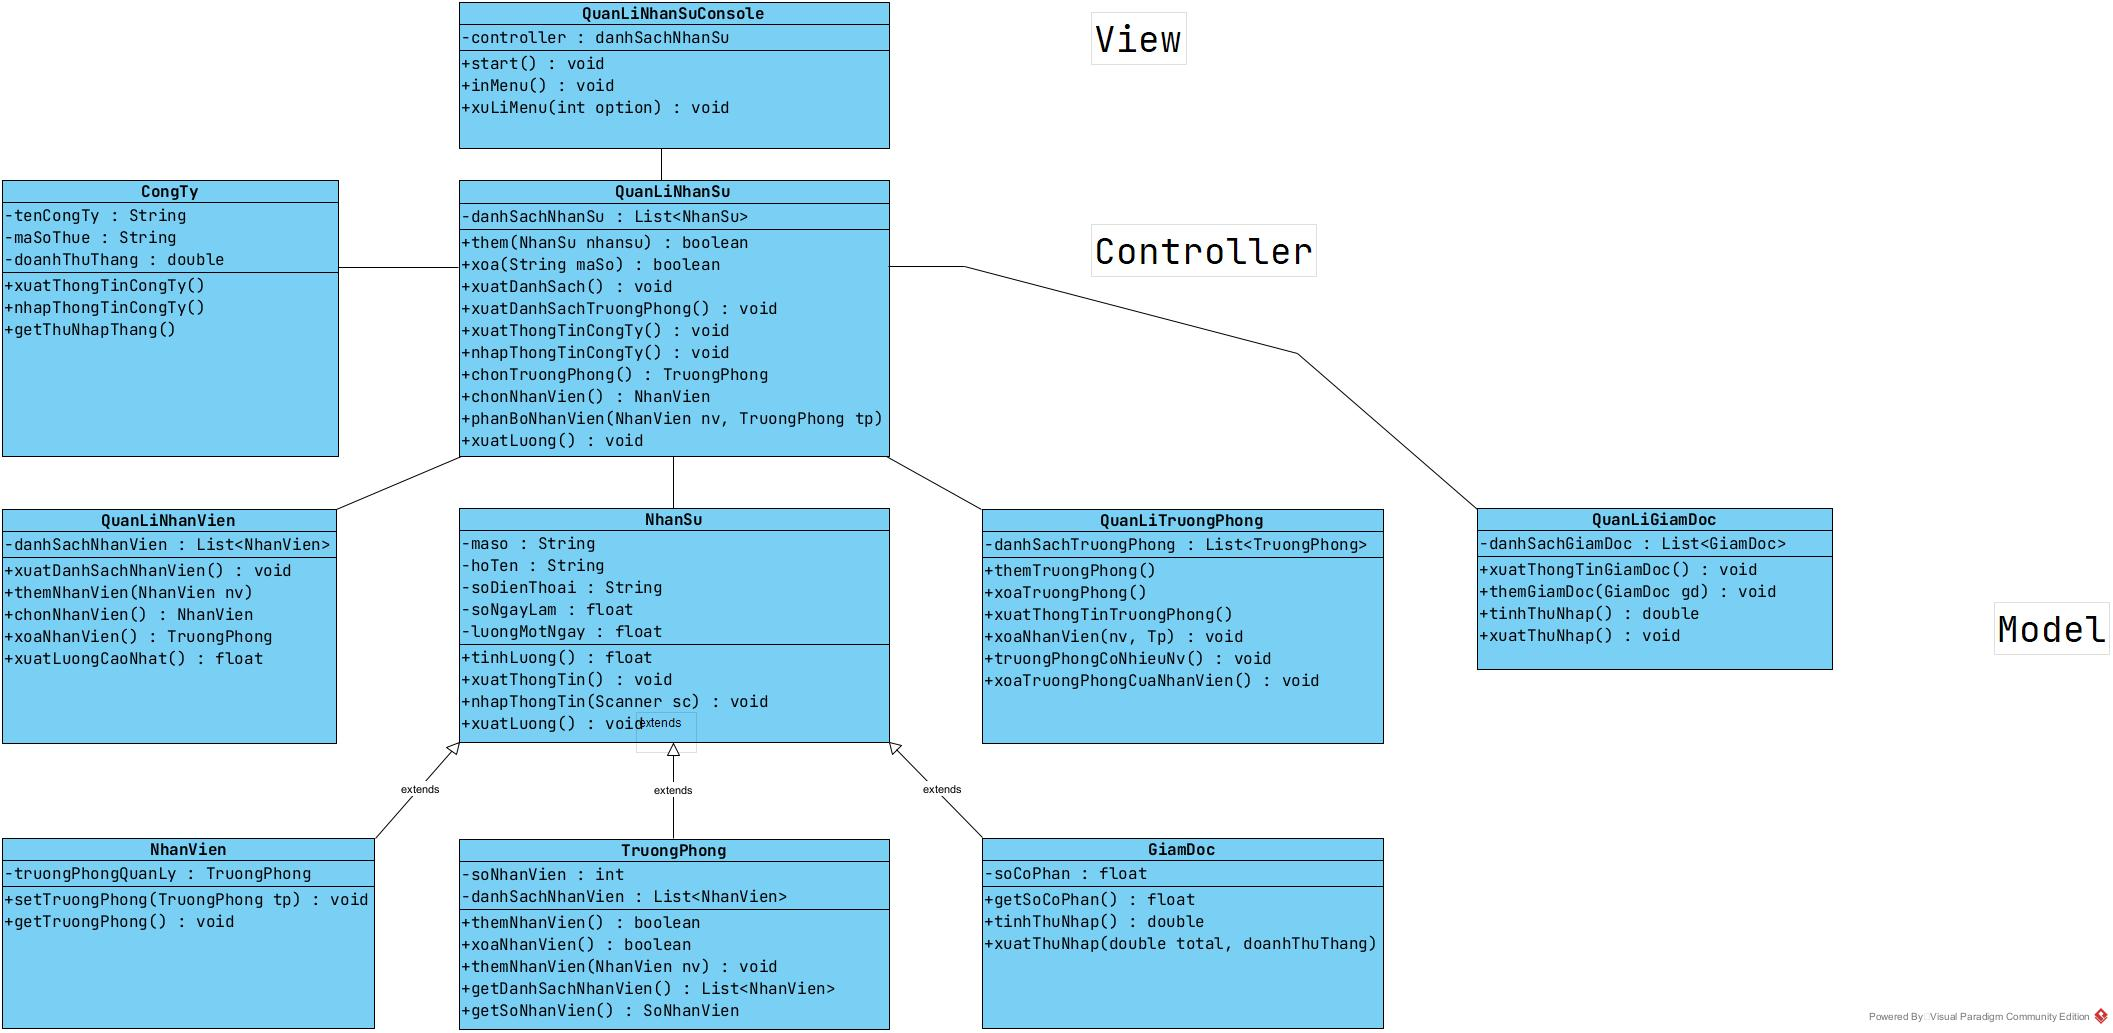
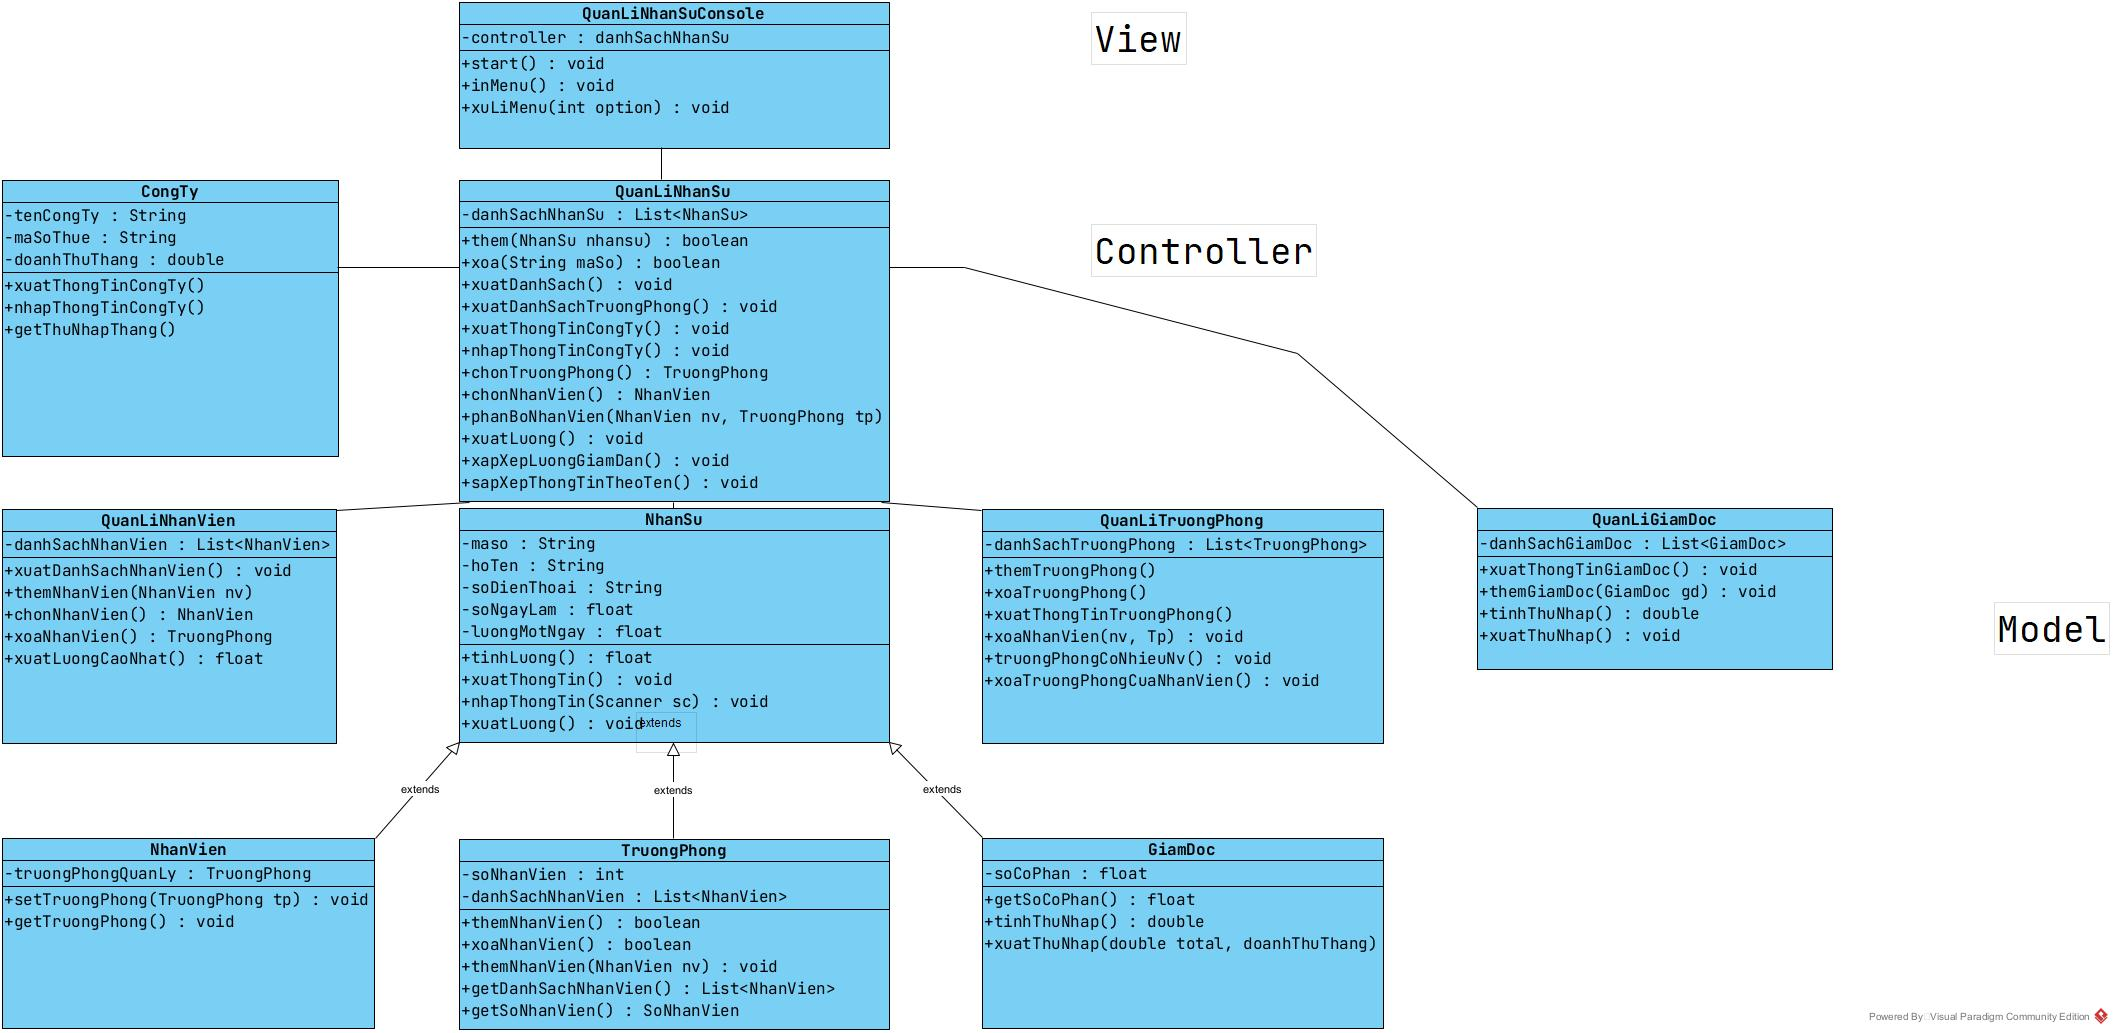
update code

Changed region(s): [[0.2186, 0.1859, 0.4373, 0.4956], [0.1562, 0.4647, 0.1874, 0.4956]]

diff --git a/src/cybersoft/javabackend/java16/views/QuanLiNhanSuConsole.java b/src/cybersoft/javabackend/java16/views/QuanLiNhanSuConsole.java
@@ -38,8 +38,9 @@ public class QuanLiNhanSuConsole {
 				.append("\n\t8. Tìm Nhân viên thường có lương cao nhất")
 				.append("\n\t9. Tìm Trưởng Phòng có số lượng nhân viên dưới quyền nhiều nhất")
 				.append("\n\t10. Sắp xếp nhân viên toàn công ty theo thứ tự abc ")
-				.append("\n\t11. Tìm Giám Đốc có số lượng cổ phần nhiều nhất")
-				.append("\n\t12. Tính và Xuất tổng THU NHẬP của từng Giám Đốc")
+				.append("\n\t11. Sắp xếp nhân viên toàn công ty theo thứ tự giảm dần.")
+				.append("\n\t12. Tìm Giám Đốc có số lượng cổ phần nhiều nhất")
+				.append("\n\t13. Tính và Xuất tổng THU NHẬP của từng Giám Đốc")
 				.append("\n\t0.Thoát")
 				.append("\nChọn: ")
 				.toString());
@@ -84,9 +85,12 @@ public class QuanLiNhanSuConsole {
 			controller.sapXepThongTinTheoTen();
 			break;
 		case 11:
-			controller.timGiamDocCoPhanHighest();
+			controller.sapXepLuongDesc();
 			break;
 		case 12:
+			controller.timGiamDocCoPhanHighest();
+			break;
+		case 13:
 			controller.tongThuNhapGiamDoc();
 			break;
 		case 0:

diff --git a/src/cybersoft/javabackend/java16/controllers/QuanLiNhanSu.java b/src/cybersoft/javabackend/java16/controllers/QuanLiNhanSu.java
@@ -101,6 +101,10 @@ public class QuanLiNhanSu {
 	}
 
 	public void xuatDanhSach() {
+		if(danhSachNhanSu.isEmpty()) {
+			System.out.println("Không có nhân sự trong công ty.Hãy thêm nhân sự.");
+			return;
+		}
 		System.out.println("==================>Danh Sách Toàn Bộ Nhân Sự<===================");
 		for (NhanSu nhanSu : danhSachNhanSu) {
 			nhanSu.xuatThongTin();
@@ -193,6 +197,24 @@ public class QuanLiNhanSu {
 		}
 		quanLiGiamDoc.xuatThuNhap(tongLuongCongTy(), congTy.getDoanhThuThang());
 		return;
+	}
+
+	public void sapXepLuongDesc() {
+		if(danhSachNhanSu.isEmpty()) {
+			System.out.println("==> Không có nhân sự trong công ty!Hãy thêm nhân sự.");
+			return;
+		}
+		
+		Collections.sort(danhSachNhanSu, new Comparator<NhanSu>() {
+
+			@Override
+			public int compare(NhanSu o1, NhanSu o2) {
+				
+				return (o1.tinhLuong() > o2.tinhLuong()) ? -1 : 1;
+			}
+		});
+		System.out.println("===>Danh Sách lương được sắp xếp giảm dần<===");
+		xuatLuong();
 	}
 }
 /*

diff --git a/src/cybersoft/javabackend/java16/MainProgram.java b/src/cybersoft/javabackend/java16/MainProgram.java
@@ -10,5 +10,4 @@ public class MainProgram {
 		program.start();
 		System.out.println("==> Chương trình đã kết thúc <==");
 	}
-
 }

diff --git a/src/cybersoft/javabackend/java16/model/NhanSu.java b/src/cybersoft/javabackend/java16/model/NhanSu.java
@@ -68,4 +68,5 @@ public class NhanSu {
 		this.name = name;
 	}
 	
+	
 }
